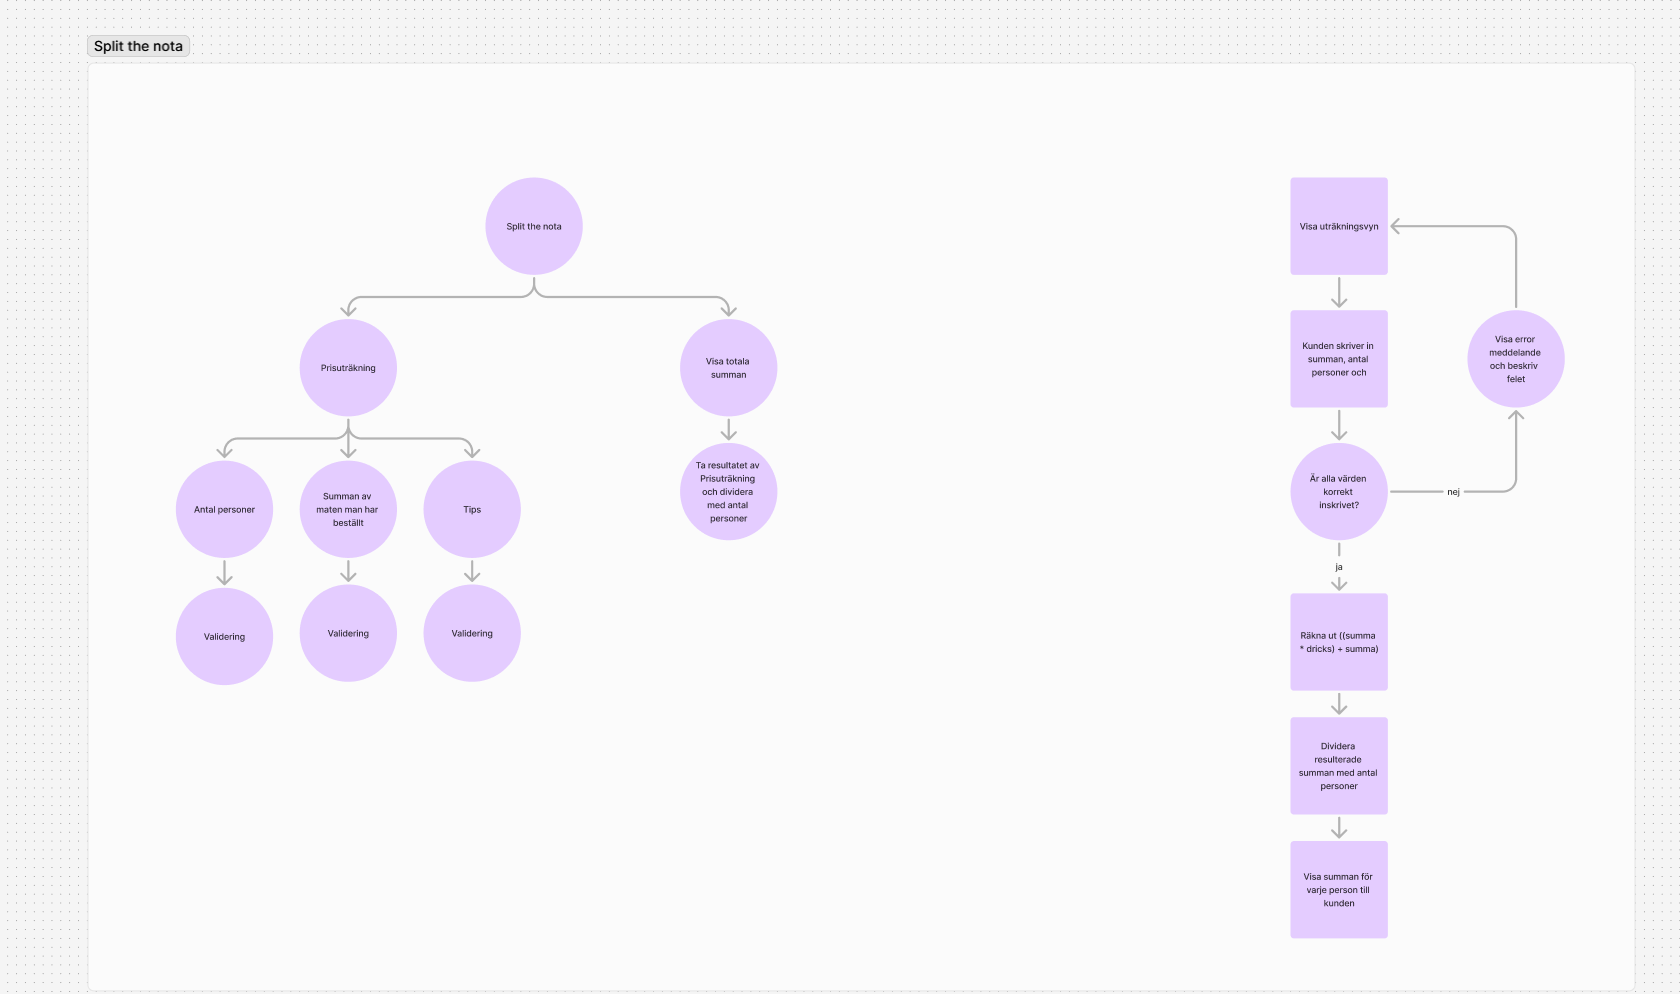
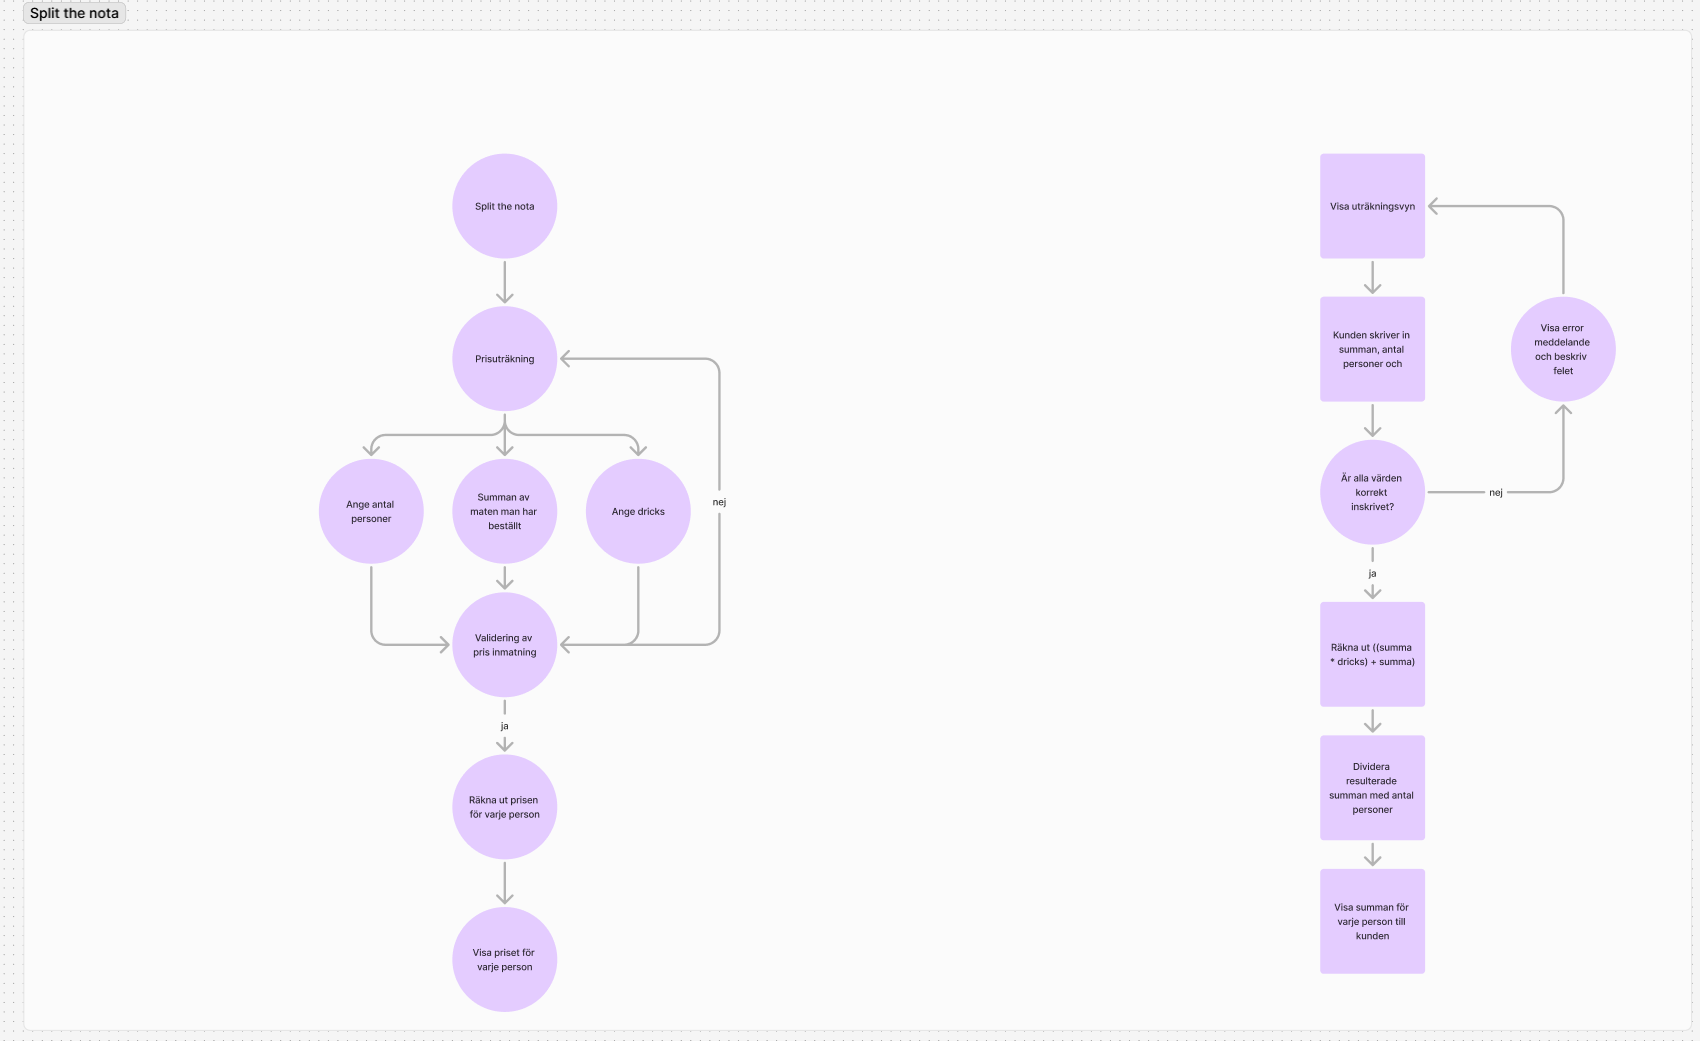
fixed issues

diff --git a/script.js b/script.js
@@ -4,27 +4,21 @@
 
 START 
 
-// skapa en variabel för antal personer
+skapa en variabel för inmatning av antal personer
 
-let people = getElementById('people').value;
+skapa en variabel för summan av maten
 
-// skapa en variabel för summan av maten
-
-let sum = getElementById('sum').value;
-
-// skapa en variabel för tips
-
-let tip = getElementById('tip').value;
+skapa en variabel för inmatningen av dricks
 
 
 FUNCTION pricePerPerson
-CALCULATE tipsen genom att ta (tip * sum)
-CALCULATE totala summan ( maten + tipsen )
+CALCULATE dricks genom att ta (dricks * summan av mat)
+CALCULATE totala summan ( summan av mat + dricks )
 spara summan i en ny variabel (total)
 
-CALCULATE  total / people;
+CALCULATE  totala summan av mat och dricks / antal personer;
 spara summan i en ny variabel (pricePerPerson)
-
+ 
 PRINT pricePerPerson;
 
 ENDFUNCTION

diff --git a/README.md b/README.md
@@ -1,3 +1,3 @@
 # Split-the-nota
 Individuell uppgift av pseudokod
-![Flödes schema](image.png)
+![Flödes diagram](image.png)
